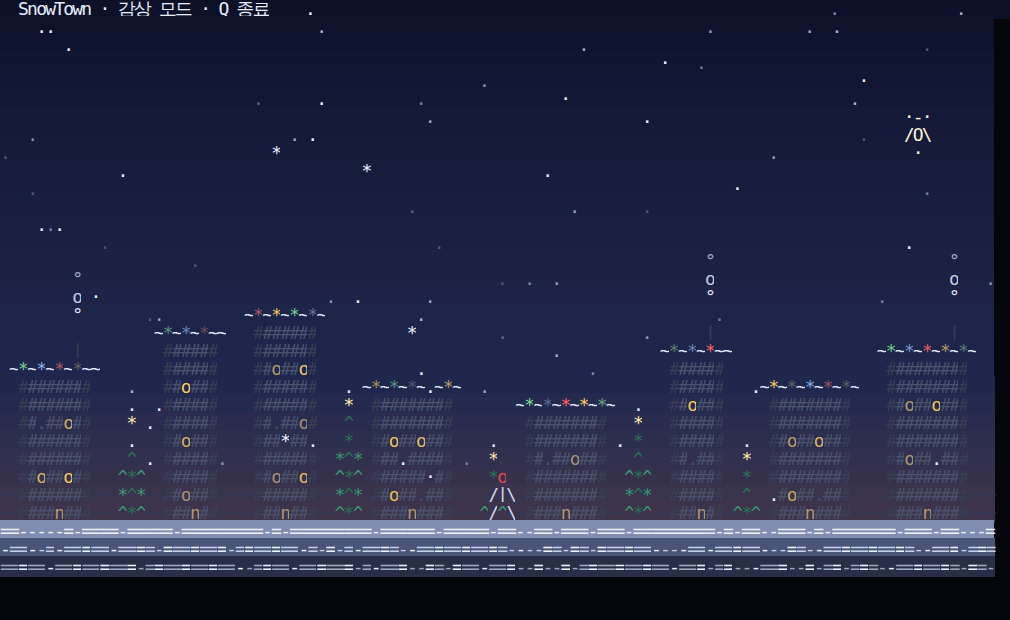
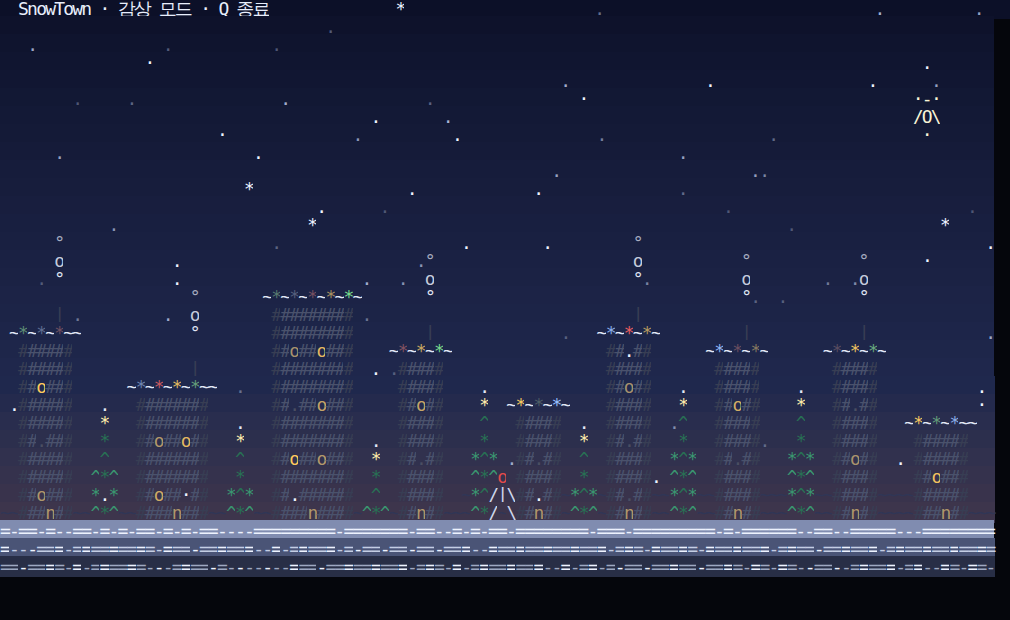
feat: 윈도우 지원 — msvcrt 키 입력·콘솔 VT/UTF-8 모드·크기 폴링, run.bat 런처, README 윈도우 실행 안내

diff --git a/snowtown.py b/snowtown.py
@@ -17,13 +17,20 @@ import argparse
 import math
 import os
 import random
-import select
 import shutil
 import signal
 import sys
-import termios
 import time
-import tty
+
+IS_WINDOWS = os.name == "nt"
+
+if IS_WINDOWS:  # 윈도우: msvcrt 로 비동기 키 입력
+    import ctypes
+    import msvcrt
+else:  # 유닉스: termios + select
+    import select
+    import termios
+    import tty
 
 # ---------------------------------------------------------------- 색
 
@@ -507,9 +514,133 @@ class Game:
 # ---------------------------------------------------------------- 터미널
 
 
+class Terminal:
+    """터미널 제어: 크기, raw 모드, 비동기 키 입력 (유닉스/윈도우 공용).
+
+    키 토큰: 'LEFT' 'RIGHT' 'UP' 'DOWN' 또는 문자 1개 ('q', ' ', 'a' ...)
+    """
+
+    def __init__(self) -> None:
+        self.windows = IS_WINDOWS
+        self._old_attr = None
+        self._old_in_mode = None
+        self._old_out_mode = None
+        self._win_kernel = None
+
+    # --- 준비
+    def setup(self) -> None:
+        if self.windows:
+            self._setup_windows()
+        else:
+            fd = sys.stdin.fileno()
+            self._old_attr = termios.tcgetattr(fd)
+            tty.setraw(fd)
+        sys.stdout.write(CSI + "?1049h" + CSI + "?25l" + CSI + "2J")
+        sys.stdout.flush()
+
+    def _setup_windows(self) -> None:
+        """콘솔 코드페이지 UTF-8 + VT 시퀀스 허용 + 입력 에코/라인모드 해제."""
+        k = ctypes.windll.kernel32
+        self._win_kernel = k
+        k.SetConsoleOutputCP(65001)
+        k.SetConsoleCP(65001)
+        try:
+            sys.stdout.reconfigure(encoding="utf-8", errors="replace")
+        except Exception:
+            pass
+
+        STD_OUT, STD_IN = -11, -10
+        ENABLE_VIRTUAL_TERMINAL_PROCESSING = 0x0004
+        ENABLE_LINE_INPUT, ENABLE_ECHO_INPUT = 0x0002, 0x0004
+
+        h_out = k.GetStdHandle(STD_OUT)
+        mode = ctypes.c_uint32()
+        if k.GetConsoleMode(h_out, ctypes.byref(mode)):
+            self._old_out_mode = mode.value
+            k.SetConsoleMode(h_out, mode.value | ENABLE_VIRTUAL_TERMINAL_PROCESSING)
+
+        h_in = k.GetStdHandle(STD_IN)
+        imode = ctypes.c_uint32()
+        if k.GetConsoleMode(h_in, ctypes.byref(imode)):
+            self._old_in_mode = imode.value
+            k.SetConsoleMode(h_in, imode.value & ~(ENABLE_LINE_INPUT | ENABLE_ECHO_INPUT))
+
+    # --- 복원
+    def restore(self) -> None:
+        sys.stdout.write(RESET + CSI + "?25h" + CSI + "?1049l")
+        sys.stdout.flush()
+        if self.windows:
+            k = self._win_kernel
+            if k is not None:
+                if self._old_out_mode is not None:
+                    k.SetConsoleMode(k.GetStdHandle(-11), self._old_out_mode)
+                if self._old_in_mode is not None:
+                    k.SetConsoleMode(k.GetStdHandle(-10), self._old_in_mode)
+        elif self._old_attr is not None:
+            termios.tcsetattr(sys.stdin.fileno(), termios.TCSADRAIN, self._old_attr)
+
+    # --- 키 입력 (논블로킹)
+    def read_keys(self) -> list[str]:
+        return self._read_keys_windows() if self.windows else self._read_keys_unix()
+
+    def _read_keys_windows(self) -> list[str]:
+        keys: list[str] = []
+        special = {"H": "UP", "P": "DOWN", "K": "LEFT", "M": "RIGHT"}
+        while msvcrt.kbhit():
+            ch = msvcrt.getwch()
+            if ch in ("\x00", "\xe0"):  # 확장 키 접두
+                nxt = msvcrt.getwch() if msvcrt.kbhit() else ""
+                token = special.get(nxt)
+                if token:
+                    keys.append(token)
+                continue
+            if ch == "\x03":  # Ctrl+C
+                keys.append("q")
+                continue
+            keys.append(ch)
+        return keys
+
+    def _read_keys_unix(self) -> list[str]:
+        keys: list[str] = []
+        fd = sys.stdin.fileno()
+        while select.select([fd], [], [], 0)[0]:
+            data = os.read(fd, 16)
+            if not data:
+                break
+            text = data.decode("utf-8", "ignore")
+            i = 0
+            while i < len(text):
+                ch = text[i]
+                if ch == "\x1b" and text[i + 1 : i + 2] == "[":
+                    code = text[i + 2 : i + 3]
+                    token = {"A": "UP", "B": "DOWN", "C": "RIGHT", "D": "LEFT"}.get(code)
+                    if token:
+                        keys.append(token)
+                    i += 3
+                    continue
+                keys.append(ch)
+                i += 1
+        return keys
+
+
 def term_size() -> tuple[int, int]:
     s = shutil.get_terminal_size((100, 32))
     return max(40, s.columns), max(14, s.lines - 1)
+
+
+def apply_key(game: "Game", key: str, args) -> "Game":
+    """키 토큰 → 게임 동작. 새 게임이 필요하면 반환한다."""
+    if key in ("q", "Q", "\x03"):
+        raise KeyboardInterrupt
+    if key in ("a", "A", "LEFT"):
+        game.world.move(-2)
+    elif key in ("d", "D", "RIGHT"):
+        game.world.move(2)
+    elif key in ("w", "W", " ", "UP"):
+        game.world.jump()
+    elif key in ("r", "R") and game.over:
+        return Game(game.w, game.h, demo=game.demo, seed=game.world.seed)
+    return game
 
 
 def run(args) -> int:
@@ -532,20 +663,18 @@ def run(args) -> int:
 
     w, h = term_size()
     game = Game(w, h, demo=args.demo, seed=args.seed)
-
-    fd = sys.stdin.fileno()
-    old_attr = termios.tcgetattr(fd)
-    old_winch = signal.getsignal(signal.SIGWINCH)
+    term = Terminal()
+    old_winch = None
 
     def on_winch(_sig, _frm):
         nw, nh = term_size()
         game.resize(nw, nh)
 
     try:
-        tty.setraw(fd)
-        sys.stdout.write(CSI + "?1049h" + CSI + "?25l" + CSI + "2J")
-        sys.stdout.flush()
-        signal.signal(signal.SIGWINCH, on_winch)
+        term.setup()
+        if not IS_WINDOWS:
+            old_winch = signal.getsignal(signal.SIGWINCH)
+            signal.signal(signal.SIGWINCH, on_winch)
 
         last = time.monotonic()
         while True:
@@ -553,41 +682,22 @@ def run(args) -> int:
             dt = min(0.1, now - last)
             last = now
 
-            # 입력
-            while select.select([sys.stdin], [], [], 0)[0]:
-                data = os.read(fd, 16)
-                if not data:
-                    break
-                for key in data.decode("utf-8", "ignore"):
-                    if key in ("q", "Q", "\x03"):
-                        return 0
-                    if key in ("a", "A"):
-                        game.world.move(-2)
-                    elif key in ("d", "D"):
-                        game.world.move(2)
-                    elif key in ("w", "W", " "):
-                        game.world.jump()
-                    elif key in ("r", "R") and game.over:
-                        game = Game(w, h, demo=args.demo, seed=args.seed)
-                    elif key == "\x1b":
-                        # 방향키 시퀀스
-                        seq = os.read(fd, 2).decode("utf-8", "ignore") if select.select([sys.stdin], [], [], 0.01)[0] else ""
-                        if seq.endswith("C"):
-                            game.world.move(2)
-                        elif seq.endswith("D"):
-                            game.world.move(-2)
-                        elif seq.endswith("A"):
-                            game.world.jump()
+            for key in term.read_keys():
+                game = apply_key(game, key, args)
+
+            if IS_WINDOWS:  # 윈도우는 SIGWINCH가 없어 주기적으로 크기 확인
+                game.resize(*term_size())
 
             game.update(dt)
             sys.stdout.write(render_ansi(game.draw(), pal))
             sys.stdout.flush()
             time.sleep(max(0.0, 1 / 24 - (time.monotonic() - now)))
+    except KeyboardInterrupt:
+        return 0
     finally:
-        signal.signal(signal.SIGWINCH, old_winch)
-        sys.stdout.write(RESET + CSI + "?25h" + CSI + "?1049l")
-        sys.stdout.flush()
-        termios.tcsetattr(fd, termios.TCSADRAIN, old_attr)
+        if old_winch is not None:
+            signal.signal(signal.SIGWINCH, old_winch)
+        term.restore()
 
 
 def main() -> int:

diff --git a/README.md b/README.md
@@ -7,12 +7,41 @@ ASCII 문자만으로 그리는 아늑한 겨울 마을 미니게임. 표준 라
 
 ## 실행
 
+### macOS / Linux
+
 ```bash
 cd "$HOME/hermes agent/snowtown"
 python3 snowtown.py             # 게임 시작 (60초 동안 떨어지는 선물 받기)
 python3 snowtown.py --demo      # 조작 없이 감상 (수업 프로젝션·스크린세이버용)
 python3 snowtown.py --no-color  # 색 없이 (단색 터미널)
 ```
+
+### Windows
+
+**준비 (최초 1회)** — Python 3.8 이상이 필요합니다.
+
+```powershell
+winget install Python.Python.3.12
+```
+
+또는 python.org 에서 설치할 때 **"Add python.exe to PATH"** 를 반드시 체크하세요.
+터미널은 **Windows Terminal**(Microsoft Store에서 무료)을 권장합니다. (Windows 10 1809+ / 11)
+
+**실행** — 저장소 폴더에서:
+
+```bat
+run.bat                 :: 더블클릭해도 됨
+run.bat --demo          :: 감상 모드
+py -3 snowtown.py       :: 직접 실행
+```
+
+`run.bat` 은 UTF-8 코드페이지를 켜고(`chcp 65001`) `py`/`python` 을 자동으로 골라 실행하며,
+오류가 나면 창이 닫히지 않고 메시지를 보여줍니다.
+
+윈도우 관련 참고:
+- 윈도우에서는 `msvcrt` 로 키 입력을 받고, 콘솔 모드(VT 시퀀스 허용)를 코드에서 켜므로 별도 설정이 필요 없습니다.
+- 아주 오래된 레거시 콘솔에서는 색이 256색으로 떨어질 수 있습니다(동작은 동일).
+- `Ctrl+C` 로 언제든 종료할 수 있고, 종료 시 화면·커서 상태를 원래대로 되돌립니다.
 
 색은 트루컬러 → 256색 → 단색으로 자동 강등되므로 어떤 터미널에서도 동작합니다.
 
@@ -40,7 +69,8 @@ python3 snowtown.py --no-color  # 색 없이 (단색 터미널)
 
 ```
 snowtown/
-├── snowtown.py          # 게임 본체 (렌더러 + 게임 루프 + 터미널 제어)
+├── snowtown.py          # 게임 본체 (렌더러 + 게임 루프 + 터미널 제어, 유닉스/윈도우 공용)
+├── run.bat              # 윈도우 실행 런처
 ├── tools/
 │   ├── preview.py       # 프레임을 HTML로 렌더 (스크린샷 검증용)
 │   ├── html_shot.mjs    # HTML → PNG (headless Chromium)
@@ -61,6 +91,7 @@ snowtown/
 | 낮밤 주기 | `World.sky_color()` 의 `90.0` |
 | 마을 밀도 | `World.build()` 의 건물 폭·간격·높이 |
 | 선물 생성 빈도 | `Game.update()` 의 `random.uniform(0.75, 1.6)` |
+| 플랫폼별 터미널 처리 | `class Terminal` (유닉스 `termios`/`select` ↔ 윈도우 `msvcrt`) |
 
 ## 검증
 
